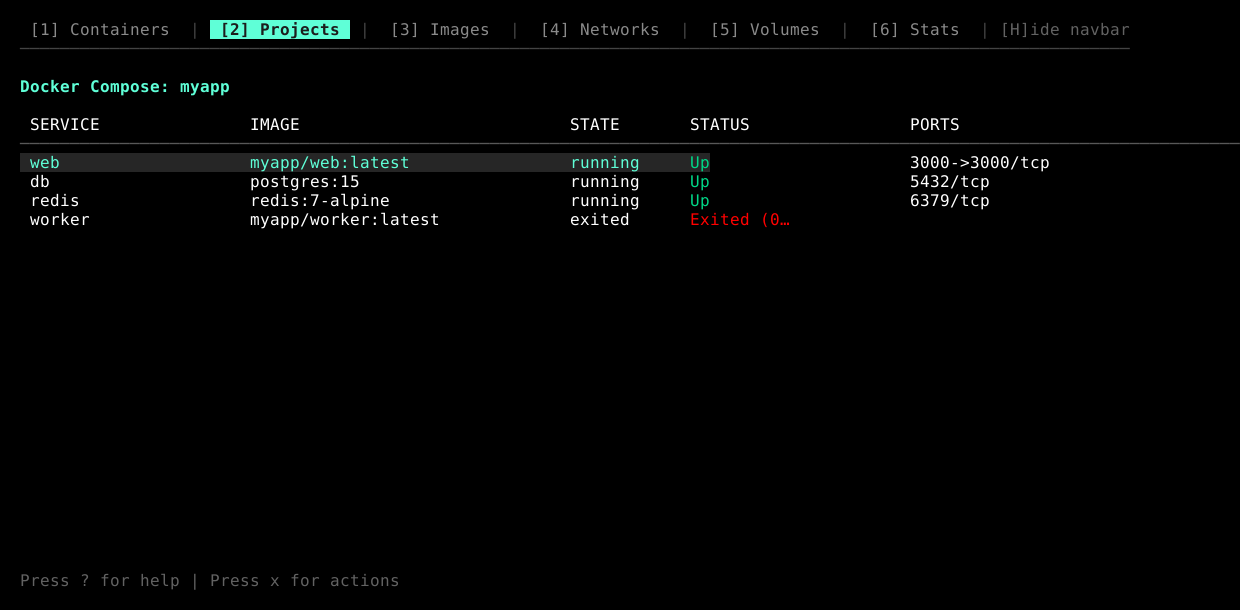
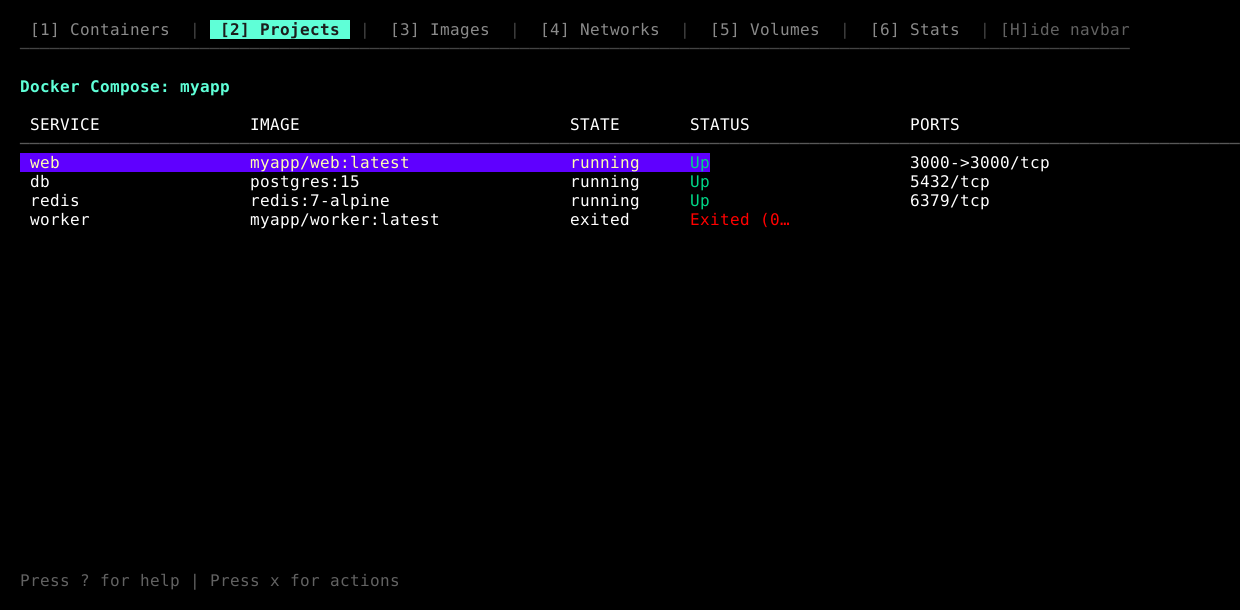
use RenderTable in compose process list view.

Changed region(s): [[0.0, 0.2492, 0.5823, 0.2803]]

diff --git a/internal/ui/view_compose_process_list.go b/internal/ui/view_compose_process_list.go
@@ -7,7 +7,6 @@ import (
 
 	"github.com/charmbracelet/bubbles/table"
 	tea "github.com/charmbracelet/bubbletea"
-	"github.com/charmbracelet/lipgloss"
 
 	"github.com/tokuhirom/dcv/internal/docker"
 
@@ -170,31 +169,7 @@ func (m *ComposeProcessListViewModel) render(model *Model, availableHeight int) 
 		rows = append(rows, table.Row{service, image, state, status, ports})
 	}
 
-	t := table.New(
-		table.WithColumns(columns),
-		table.WithRows(rows),
-		table.WithHeight(availableHeight-2),
-		table.WithFocused(true),
-	)
-
-	// Apply styles
-	styles := table.DefaultStyles()
-	styles.Header = styles.Header.
-		BorderStyle(lipgloss.NormalBorder()).
-		BorderForeground(lipgloss.Color("240")).
-		BorderBottom(true).
-		Bold(false)
-	styles.Selected = selectedStyle
-	styles.Cell = styles.Cell.
-		BorderForeground(lipgloss.Color("240"))
-	t.SetStyles(styles)
-
-	// Set cursor position
-	if m.selectedContainer < len(rows) {
-		t.MoveDown(m.selectedContainer)
-	}
-
-	return t.View()
+	return RenderTable(columns, rows, availableHeight, m.selectedContainer)
 }
 
 func (m *ComposeProcessListViewModel) HandleUp() tea.Cmd {

diff --git a/internal/ui/view.go b/internal/ui/view.go
@@ -16,10 +16,6 @@ var (
 			Foreground(lipgloss.Color("86")).
 			MarginBottom(1)
 
-	selectedStyle = lipgloss.NewStyle().
-			Foreground(lipgloss.Color("86")).
-			Background(lipgloss.Color("235"))
-
 	errorStyle = lipgloss.NewStyle().
 			Foreground(lipgloss.Color("196")).
 			Bold(true)
